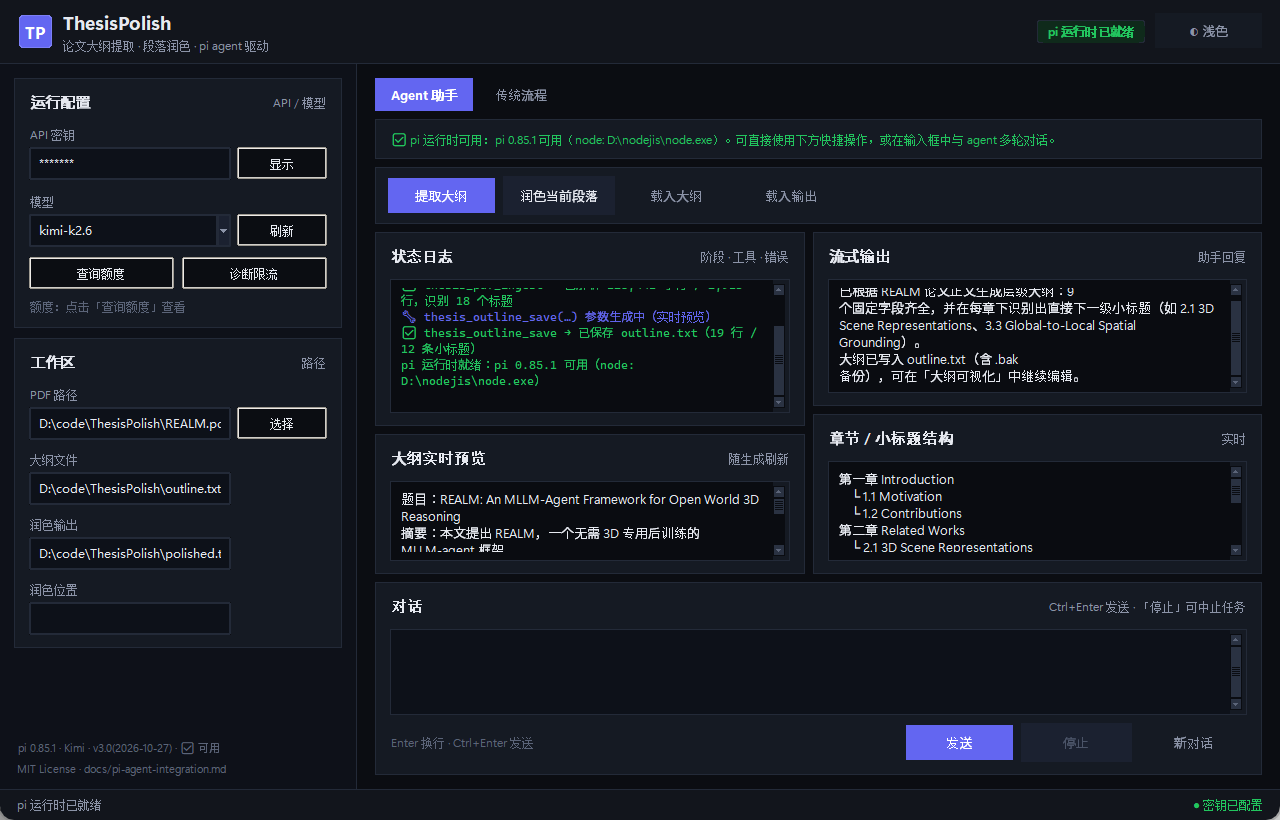
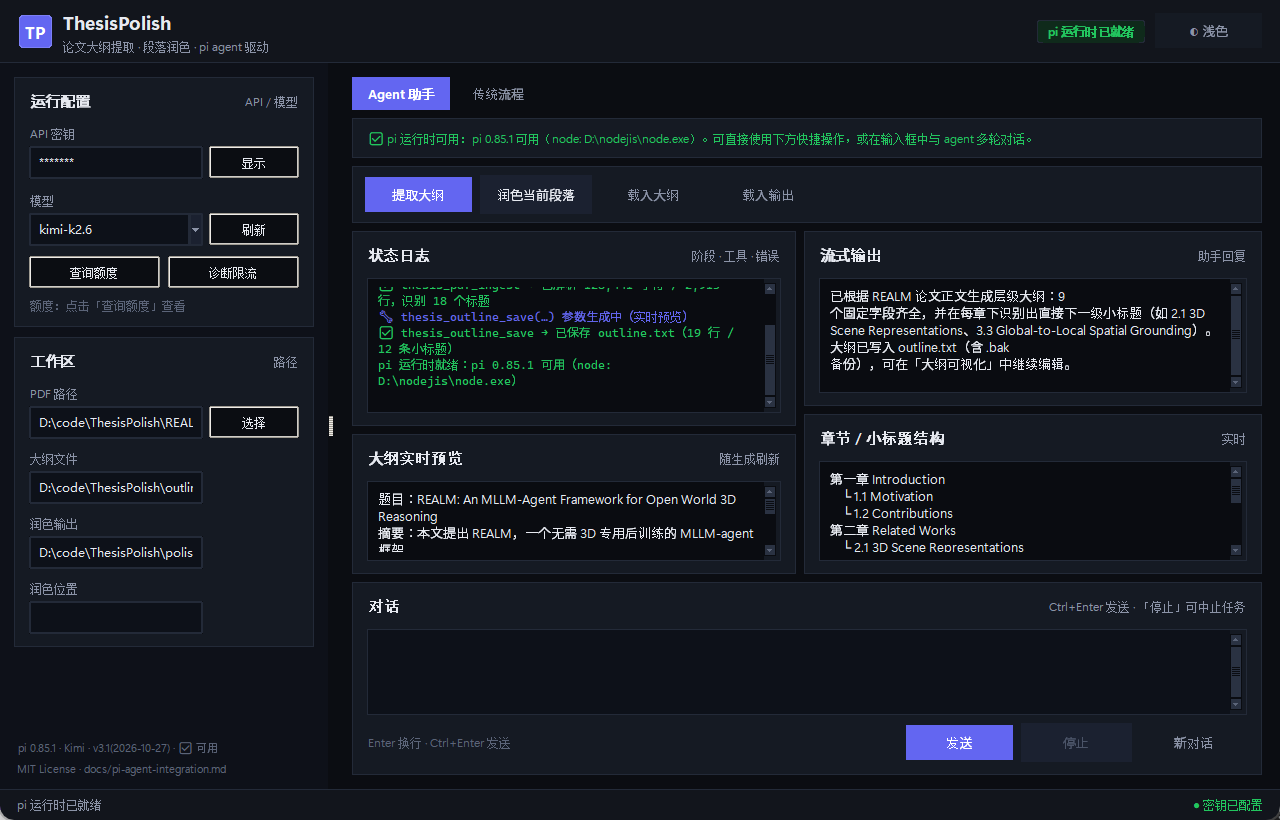
ThesisPolish:fix header subtitle clipping and make sidebar resizable (v3.1);rrdongdong;2026.10.27

diff --git a/tests/test_model_selection.py b/tests/test_model_selection.py
@@ -678,3 +678,35 @@ def test_gui_conn_label_tracks_api_key(gui_app):
     app._on_api_key_changed()
     assert "已配置" in app.conn_label.cget("text")
     app.api_key_var.set("")
+
+
+def test_gui_header_subtitle_is_visible(gui_app):
+    """品牌栏副标题必须自然撑开可见（高 DPI 下不能被固定高度裁掉）。"""
+    app, _root = gui_app
+    assert "论文大纲提取" in app.header_subtitle.cget("text")
+    assert app.header_subtitle.winfo_reqheight() >= 12
+    assert app.header.winfo_reqheight() >= (
+        app.header_title.winfo_reqheight() + app.header_subtitle.winfo_reqheight()
+    )
+
+
+def test_gui_sidebar_width_is_draggable_and_persisted(gui_app):
+    """左侧边栏位于可拖拽 Panedwindow 中：拖动分隔条后宽度写入 ui_settings.json。"""
+    app, root = gui_app
+    root.deiconify()
+    root.update_idletasks()
+    root.update()
+    try:
+        assert app.body_paned.sashpos(0) >= 240
+        app.body_paned.sashpos(0, 420)
+        root.update_idletasks()
+        root.update()
+        assert app.body_paned.sashpos(0) == 420
+        app._on_sash_release()
+        settings = json.loads(
+            (REPO_ROOT / ".thesis" / "ui_settings.json").read_text(encoding="utf-8")
+        )
+        assert settings.get("sidebar_width") == 420
+        app.body_paned.sashpos(0, 356)
+    finally:
+        root.withdraw()

diff --git a/ui_theme.py b/ui_theme.py
@@ -279,6 +279,7 @@ def configure_ttk(style: ttk.Style, theme: Theme) -> None:
         pass
     style.configure("TNotebook", background=p["bg"], borderwidth=0)
     style.configure("TPanedwindow", background=p["bg"])
+    style.configure("Body.TPanedwindow", background=p["bg"], sashwidth=6)
     try:
         style.configure("Sash", background=p["border"], sashthickness=6)
     except tk.TclError:
